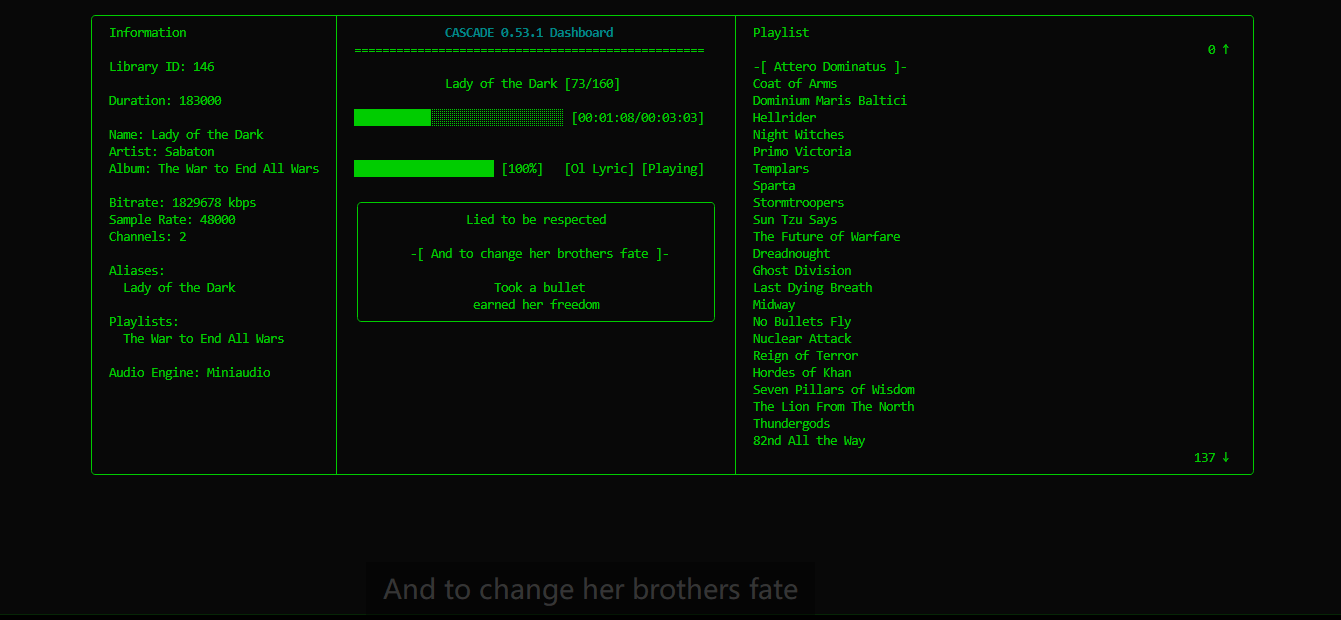
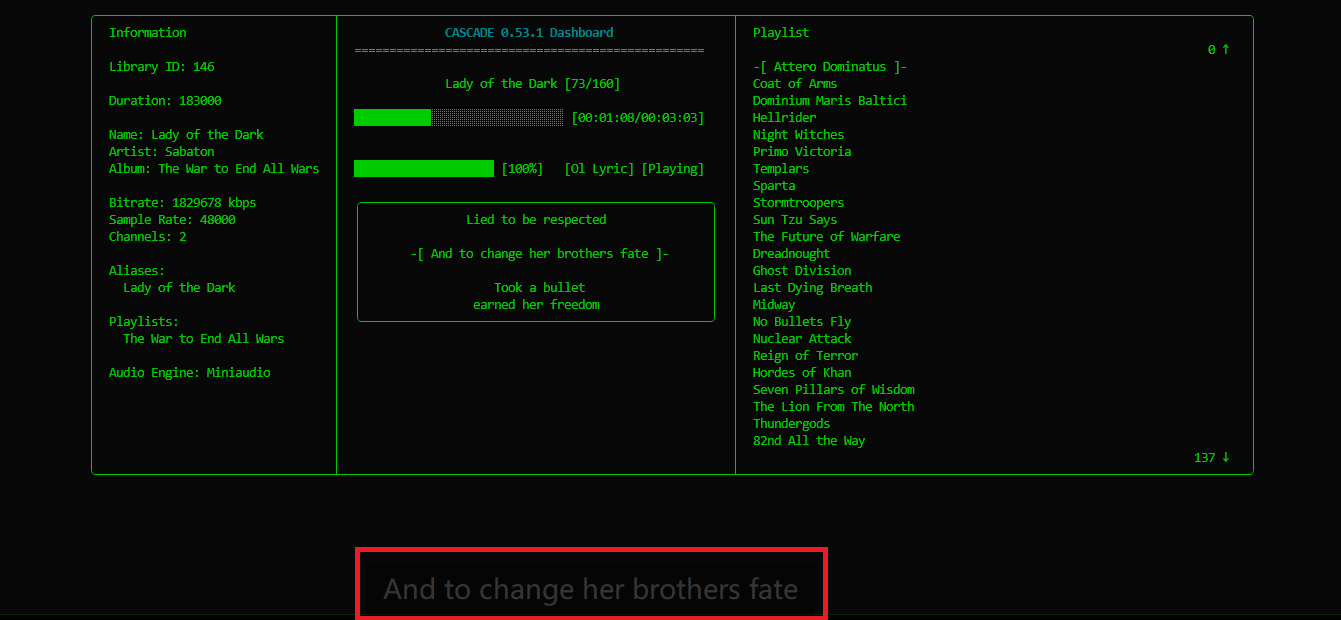
docs: improved readme

Changed region(s): [[0.2446, 0.8887, 0.6421, 1.0], [0.2752, 0.8581, 0.6115, 0.8887]]

diff --git a/README.md b/README.md
@@ -8,48 +8,48 @@ Retrieves collections of mechanically-represented wave data from persistent stor
 
 (CLI music player. Lives in the terminal.)
 
+---
+
+This is my biggest and best project so far. Check out my other repos and you'll see why. I wanted to build something with a separate backend-frontend structure, then I came up with the music player idea. 
+
+The original name of this project was CADENCE, which stands for **C**ommand-line **A**udio **D**ecoding **E**gine with **N**avigation and **C**ontinuous **E**xecution, but later I realized there's already another Cadence on market. So I was forced to change the name into what it is now, even though the other Cadence name isn't nearly as cool as mine.
+
+I'm not a professional programmer, and programming is more of a hobby to me. Don't hold back on any kind of feedback!
+
+Wiki coming soon.
+
+P.S. I'm not from an English-speaking country, so feel free for feedback on the English too.
+
+---
+
 ## Highlights
 
 - Daemon backend running in the background - control your playback across terminals
 - Automatic online lyric 
 - Remote control
-- Pluggable audio engine: VLC / miniaudio
+- Choose from TWO audio engines: VLC / miniaudio
 
 ## Dependencies
 
 - Python 3.12+
-- VLC media player (if you want to use the VLC engine)
+- VLC media player (already included in releases)
 - [Third-party packages](requirements.in)
 
 ## Installation
 
-### Option A - pip (recommended)
-
-Install straight from the repository (needs `git`):
+### Pip
 
 ```bash
 pip install git+https://github.com/askformeal/CASCADE.git
 ```
 
-Or from a downloaded copy, from the project directory:
-
-```bash
-git clone https://github.com/askformeal/CASCADE.git
-cd CASCADE
-pip install .
-```
-
-**With the `vlc` engine you must install [VLC](https://www.videolan.org/vlc/) yourself; the default `miniaudio` engine needs none.**
-
-### Option B - portable build (`build.sh`)
+### Build from source
 
 ```bash
 bash build.sh          # on Windows: from git-bash
 ```
 
-Builds a self-contained folder (plus a `.zip`) into `dist/cascade-<version>/`, bundling a standalone CPython runtime, all dependencies, **and the VLC runtime** (a GUI-free subset - see `VLC_SRC` in `build.sh`). Launch with `cascade.cmd` in the bundle root; it can be copied to another machine and run as-is.
-
-**No VLC installation needed** - the bundle ships its own.
+**I never spent much effort on the building script, so I recommend pip.**
 
 ## Screenshots
 
@@ -80,7 +80,7 @@ Builds a self-contained folder (plus a `.zip`) into `dist/cascade-<version>/`, b
 ╰──────────────────────────────────────┴────────────────────────────────────────────────────────┴─────────────────────────────────────────────────────────────────────────╯
 ```
 
-(Yep, that's Sabaton you are seeing)
+(Yep, that's Sabaton you are seeing there)
 
 ### Floating lyric
 
